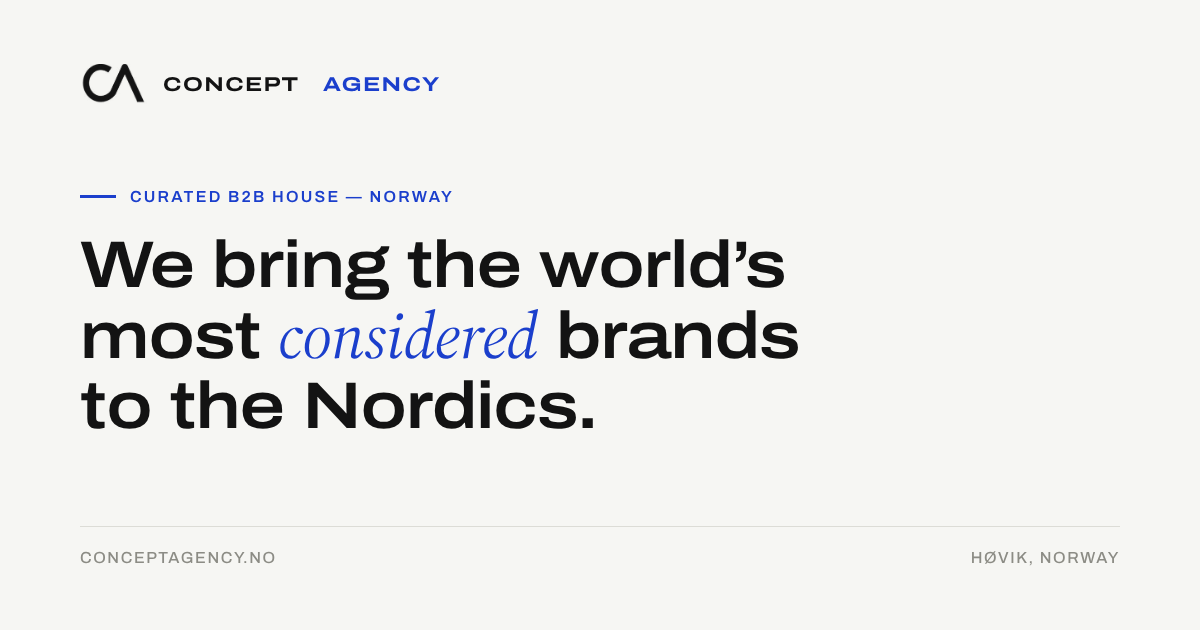
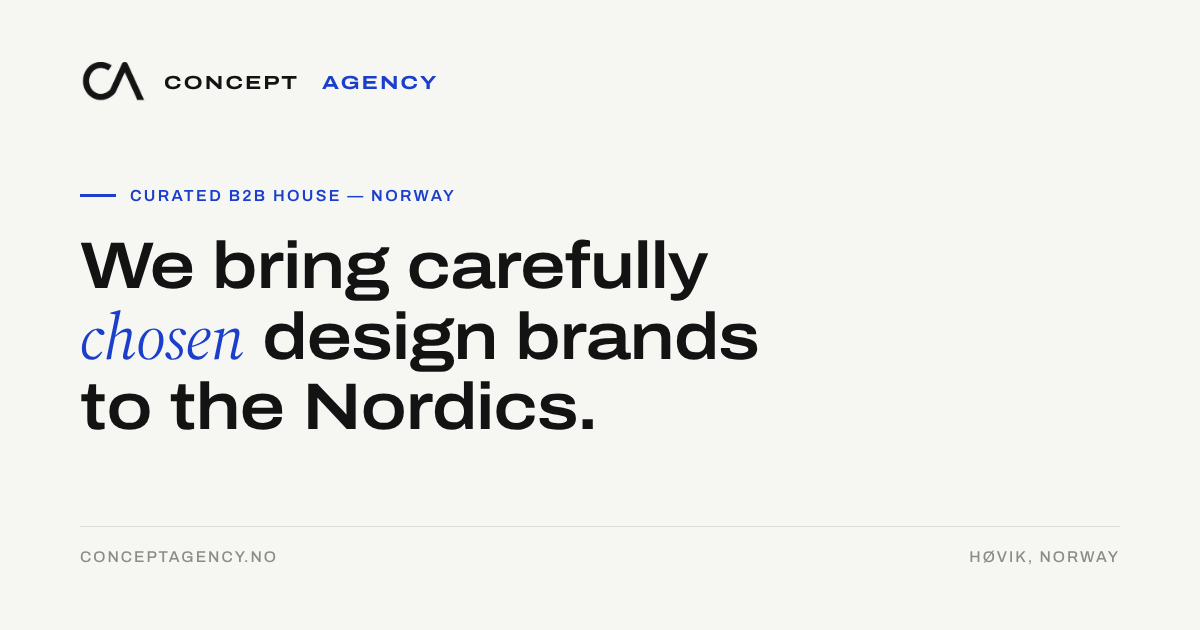
Homepage: section rhythm, Norwegian homepage (/no), new headlines; Consulting out of the top menu
- Homepage sections now alternate paper, white and ink like the inner pages; PoMo quote on ink
- Norwegian homepage at /no with a language switch on both homepages; hreflang and sitemap updated
- Each language stays in its own lane: English home links to /retail and /opticians, Norwegian home to /forhandler and /optiker
- Headlines: "We bring carefully chosen design brands to the Nordics." / "Merkevarer laget med omtanke, valgt med omhu."
- Link-preview image regenerated with the new English headline
- Consulting removed from the top menu on the agency pages; the homepage section remains

Claude-Session: https://claude.ai/code/session_018aYjpAzLeGziJtN6NsM1dY

diff --git a/no.html b/no.html
@@ -1,24 +1,24 @@
 <!DOCTYPE html>
-<html lang="en">
+<html lang="nb">
 <head>
 <meta charset="UTF-8">
 <meta name="viewport" content="width=device-width, initial-scale=1.0">
-<title>Concept Agency — Curated design brands for the Nordics</title>
-<meta name="description" content="Concept Agency is a curated B2B house in Norway, bringing a small number of design-led international brands to concept stores, museum shops and optician practices in the Nordics.">
-<link rel="canonical" href="https://conceptagency.no/">
+<title>Concept Agency — Kuraterte designmerkevarer for Norden</title>
+<meta name="description" content="Concept Agency er et kuratert B2B-agentur i Norge som bringer et lite utvalg designdrevne internasjonale merkevarer til konseptbutikker, museumsbutikker og optikere i Norden.">
+<link rel="canonical" href="https://conceptagency.no/no">
 <link rel="alternate" hreflang="en" href="https://conceptagency.no/">
 <link rel="alternate" hreflang="nb" href="https://conceptagency.no/no">
 <link rel="alternate" hreflang="x-default" href="https://conceptagency.no/">
 <meta property="og:type" content="website">
 <meta property="og:site_name" content="Concept Agency">
-<meta property="og:title" content="Concept Agency — Curated design brands for the Nordics">
-<meta property="og:description" content="Concept Agency is a curated B2B house in Norway, bringing a small number of design-led international brands to concept stores, museum shops and optician practices in the Nordics.">
-<meta property="og:url" content="https://conceptagency.no/">
+<meta property="og:title" content="Concept Agency — Kuraterte designmerkevarer for Norden">
+<meta property="og:description" content="Concept Agency er et kuratert B2B-agentur i Norge som bringer et lite utvalg designdrevne internasjonale merkevarer til konseptbutikker, museumsbutikker og optikere i Norden.">
+<meta property="og:url" content="https://conceptagency.no/no">
 <meta property="og:image" content="https://conceptagency.no/images/og-default.png">
 <meta property="og:image:width" content="1200">
 <meta property="og:image:height" content="630">
-<meta property="og:locale" content="en_GB">
-<meta property="og:locale:alternate" content="nb_NO">
+<meta property="og:locale" content="nb_NO">
+<meta property="og:locale:alternate" content="en_GB">
 <meta name="twitter:card" content="summary_large_image">
 <link rel="icon" href="/favicon.ico" sizes="48x48">
 <link rel="icon" type="image/png" sizes="192x192" href="/icon-192.png">
@@ -307,19 +307,19 @@
   .proof blockquote em{color:#8FA3F2}
   .hero h1{text-wrap:balance}
 </style>
-<script type="application/ld+json">{"@context": "https://schema.org", "@graph": [{"@type": "Organization", "@id": "https://conceptagency.no/#organization", "name": "Concept Agency", "legalName": "Concept Agency AS", "url": "https://conceptagency.no/", "logo": {"@type": "ImageObject", "url": "https://conceptagency.no/images/ca-mark.png", "width": 322, "height": 193}, "image": "https://conceptagency.no/images/og-default.png", "description": "Concept Agency is a curated B2B house in Norway, bringing a small number of design-led international brands to concept stores, museum shops and optician practices in the Nordics.", "email": "info@conceptagency.no", "telephone": "+47 934 64 432", "address": {"@type": "PostalAddress", "streetAddress": "Sarbuvollveien 38", "postalCode": "1363", "addressLocality": "Høvik", "addressCountry": "NO"}, "areaServed": {"@type": "Country", "name": "Norway"}, "award": "Izipizi Global Agent of the Year (2026)", "sameAs": ["https://www.linkedin.com/company/concept-agency-as/", "https://www.instagram.com/conceptagency_norway/"]}, {"@type": "Person", "@id": "https://conceptagency.no/#erik-spade", "name": "Erik Spade", "jobTitle": "Managing Partner", "sameAs": ["https://www.linkedin.com/in/erikspade67"], "worksFor": {"@id": "https://conceptagency.no/#organization"}}, {"@type": "WebSite", "@id": "https://conceptagency.no/#website", "url": "https://conceptagency.no/", "name": "Concept Agency", "publisher": {"@id": "https://conceptagency.no/#organization"}, "inLanguage": ["en", "nb"]}, {"@type": "WebPage", "@id": "https://conceptagency.no/#webpage", "url": "https://conceptagency.no/", "name": "Concept Agency — Curated design brands for the Nordics", "description": "Concept Agency is a curated B2B house in Norway, bringing a small number of design-led international brands to concept stores, museum shops and optician practices in the Nordics.", "isPartOf": {"@id": "https://conceptagency.no/#website"}, "about": {"@id": "https://conceptagency.no/#organization"}, "inLanguage": "en"}]}</script>
+<script type="application/ld+json">{"@context": "https://schema.org", "@graph": [{"@type": "WebPage", "@id": "https://conceptagency.no/no#webpage", "url": "https://conceptagency.no/no", "name": "Concept Agency — Kuraterte designmerkevarer for Norden", "description": "Concept Agency er et kuratert B2B-agentur i Norge som bringer et lite utvalg designdrevne internasjonale merkevarer til konseptbutikker, museumsbutikker og optikere i Norden.", "isPartOf": {"@id": "https://conceptagency.no/#website"}, "about": {"@id": "https://conceptagency.no/#organization"}, "inLanguage": "nb"}, {"@type": "Organization", "@id": "https://conceptagency.no/#organization", "name": "Concept Agency", "legalName": "Concept Agency AS", "url": "https://conceptagency.no/"}, {"@type": "WebSite", "@id": "https://conceptagency.no/#website", "url": "https://conceptagency.no/", "name": "Concept Agency", "publisher": {"@id": "https://conceptagency.no/#organization"}, "inLanguage": ["en", "nb"]}]}</script>
 </head>
 <body>
 
 <header>
   <div class="wrap nav">
-    <a class="wordmark" href="/" style="display:inline-flex;align-items:center;gap:12px"><img src="/images/ca-mark.png" alt="Concept Agency" style="height:30px;width:auto;display:block">Concept<span>&nbsp;Agency</span></a>
+    <a class="wordmark" href="/no" style="display:inline-flex;align-items:center;gap:12px"><img src="/images/ca-mark.png" alt="Concept Agency" style="height:30px;width:auto;display:block">Concept<span>&nbsp;Agency</span></a>
     <button class="menu-toggle" aria-label="Menu" aria-expanded="false" onclick="var n=document.querySelector('nav.links');this.setAttribute('aria-expanded',n.classList.toggle('open'))"><span></span><span></span></button>
     <nav class="links">
-      <a href='/retail'>For Retail</a>
-      <a href='/opticians'>For Opticians</a>
-      <a href="#brands">Brands</a>
-      <a href="#contact">Contact</a>
+      <a href='/forhandler'>Forhandlere</a>
+      <a href='/optiker'>Optikere</a>
+      <a href="#brands">Merkevarer</a>
+      <a href="#contact">Kontakt</a>
     </nav>
   </div>
 </header>
@@ -328,22 +328,22 @@
   <div class="wrap">
     <div class="hero-top">
       <div class="eyebrow">Izipizi Global Agent of the Year</div>
-      <a class="lang" href="/no" lang="nb" hreflang="nb">Norsk</a>
+      <a class="lang" href="/" lang="en" hreflang="en">English</a>
     </div>
-    <h1>We bring carefully <em>chosen</em> design brands to the Nordics.</h1>
-    <p class="standfirst">Concept Agency is a curated B2B house in Norway. We select a small number of design-led brands and build them lasting homes — in the best concept stores, museum shops and optician practices in the Nordics.</p>
+    <h1>Merkevarer laget med omtanke, <em>valgt</em> med omhu.</h1>
+    <p class="standfirst">Concept Agency er et kuratert B2B-agentur i Norge. Vi velger ut et lite antall designdrevne merkevarer og gir dem et varig hjem — i de beste konseptbutikkene, museumsbutikkene og optikerforretningene i Norden.</p>
     <div class="proof-grid hero-stats">
       <div class="stat">
         <div class="num">200</div>
-        <div class="lab">Doors across Norway — concept stores, museum shops and optician practices</div>
+        <div class="lab">Utsalgssteder i Norge — konseptbutikker, museumsbutikker og optikere</div>
       </div>
       <div class="stat">
         <div class="num">50<sup>+</sup></div>
-        <div class="lab">Optician practices working with us today</div>
+        <div class="lab">Optikere som samarbeider med oss i dag</div>
       </div>
       <div class="stat">
         <div class="num">№1</div>
-        <div class="lab">Izipizi agent worldwide — recognised globally in 2026</div>
+        <div class="lab">Izipizi-agent i verden — kåret globalt i 2026</div>
       </div>
     </div>
   </div>
@@ -351,87 +351,87 @@
 
 <section class="logostrip">
   <div class="wrap">
-    <p class="logostrip-label">Brands we represent in the Nordics</p>
+    <p class="logostrip-label">Merkevarer vi representerer i Norden</p>
     <div class="logostrip-row">
-      <a class="brandmark" href="/retail#izipizi">Izipizi</a>
-      <a class="brandmark" href="/retail#nychairx">Nychair&nbsp;X</a>
+      <a class="brandmark" href="/forhandler#izipizi">Izipizi</a>
+      <a class="brandmark" href="/forhandler#nychairx">Nychair&nbsp;X</a>
       <a class="brandmark" href="/milena-kling/">Milena Kling</a>
-      <a class="brandmark" href="/retail#hippiedeluxe">Hippie de Luxe</a>
-      <a class="brandmark" href="/retail#danawyse">Dana Wyse</a>
+      <a class="brandmark" href="/forhandler#hippiedeluxe">Hippie de Luxe</a>
+      <a class="brandmark" href="/forhandler#danawyse">Dana Wyse</a>
     </div>
   </div>
 </section>
 
 <section class="split">
-  <a class='panel' href='/retail' id='retail'>
-    <div class="tag">01 — For Retail</div>
-    <h2>Brands your customers come back for.</h2>
-    <p>Izipizi eyewear, Nychair X furniture, Milena Kling glass, Hippie de Luxe gift articles and Dana Wyse concept art — curated for stores with a point of view.</p>
-    <span class="go">Explore the retail portfolio</span>
+  <a class='panel' href='/forhandler' id='retail'>
+    <div class="tag">01 — For forhandlere</div>
+    <h2>Merkevarer kundene kommer tilbake for.</h2>
+    <p>Izipizi-briller, Nychair X-møbler, glass fra Milena Kling, gaveartikler fra Hippie de Luxe og konseptkunst av Dana Wyse — kuratert for butikker med en tydelig profil.</p>
+    <span class="go">Se porteføljen for forhandlere</span>
   </a>
-  <a class='panel' href='/opticians' id='opticians'>
-    <div class="tag">02 — For Opticians</div>
-    <h2>New revenue inside your practice.</h2>
-    <p>Izipizi optical lines, eyewear insurance, and the Izipizi RX collection for myopia management arriving 2027. Proven concepts that grow basket size — without adding complexity.</p>
-    <span class="go">See the optician programme</span>
+  <a class='panel' href='/optiker' id='opticians'>
+    <div class="tag">02 — For optikere</div>
+    <h2>Mer omsetning i butikken.</h2>
+    <p>Izipizi for optikere, brilleforsikring og Izipizi RX-kolleksjonen for myopikontroll, som kommer i 2027. Velprøvde konsepter som øker handlekurven — uten mer administrasjon.</p>
+    <span class="go">Se optikerprogrammet</span>
   </a>
 </section>
 
 <section class="brands" id="brands">
   <div class="wrap">
-    <div class="section-label">The Portfolio — Selected, not collected</div>
+    <div class="section-label">Porteføljen — Utvalgt, ikke samlet</div>
 
-    <a class='brand-row' href='/retail#izipizi'>
+    <a class='brand-row' href='/forhandler#izipizi'>
       <h3>Izipizi</h3>
-      <span class="cat">Eyewear for every chapter of life</span>
+      <span class="cat">Briller for alle livets faser</span>
       <span class="origin">Paris, FR</span>
     </a>
-    <a class='brand-row' href='/retail#nychairx'>
+    <a class='brand-row' href='/forhandler#nychairx'>
       <h3>Nychair X</h3>
-      <span class="cat">The Japanese folding lounge chair, designed by Takeshi Nii</span>
+      <span class="cat">Den japanske sammenleggbare hvilestolen, designet av Takeshi Nii</span>
       <span class="origin">Japan</span>
     </a>
     <a class='brand-row' href='/milena-kling/'>
       <h3>Milena Kling</h3>
-      <span class="cat">Contemporary mouth-blown glass — signed, one-of-a-kind collectibles</span>
+      <span class="cat">Munnblåst samtidsglass — signerte, unike samleobjekter</span>
       <span class="origin">Berlin, DE</span>
     </a>
-    <a class='brand-row' href='/retail#hippiedeluxe'>
+    <a class='brand-row' href='/forhandler#hippiedeluxe'>
       <h3>Hippie de Luxe</h3>
-      <span class="cat">The Nordics' leading gift article house — 33 brands, formerly Ohlsson &amp; Lohaven</span>
-      <span class="origin">Sweden</span>
+      <span class="cat">Nordens ledende hus for gaveartikler — 33 merkevarer, tidligere Ohlsson &amp; Lohaven</span>
+      <span class="origin">Sverige</span>
     </a>
-    <a class='brand-row' href='/retail#danawyse'>
+    <a class='brand-row' href='/forhandler#danawyse'>
       <h3>Dana Wyse</h3>
-      <span class="cat">Concept art — limited editions</span>
+      <span class="cat">Konseptkunst — begrensede opplag</span>
       <span class="origin">Paris / Vancouver</span>
     </a>
-    <a class="brand-row" href="/opticians">
-      <h3>Eyewear Insurance</h3>
-      <span class="cat">Aftercare programmes for optician practices</span>
-      <span class="origin">Norway</span>
+    <a class="brand-row" href="/optiker">
+      <h3>Brilleforsikring</h3>
+      <span class="cat">Forsikringsordninger for optikere</span>
+      <span class="origin">Norge</span>
     </a>
   </div>
 </section>
 
 <section class="feature" style="padding:12vh 0;border-bottom:1px solid var(--line)">
   <div class="wrap">
-    <div class="section-label" style="color:var(--cobalt)">New to the Portfolio — 2026</div>
+    <div class="section-label" style="color:var(--cobalt)">Nytt i porteføljen — 2026</div>
     <div style="display:grid;grid-template-columns:minmax(0,1.1fr) minmax(0,.9fr);gap:6vw;align-items:center" class="feature-grid">
       <div>
-        <h2 style="font-variation-settings:'wdth' 118;font-weight:600;font-size:clamp(1.9rem,3.8vw,3rem);line-height:1.06;letter-spacing:-.012em;margin-bottom:24px;max-width:14ch">Nychair&nbsp;X<br><span style="font-family:'Source Serif 4',serif;font-style:italic;font-weight:400;font-size:.55em;color:var(--cobalt)">A Japanese design icon, since 1970</span></h2>
-        <p style="max-width:50ch;color:#3c3c38;font-size:15px;margin-bottom:14px">Designed by Takeshi Nii in 1970 and still made entirely in Japan, Nychair X is the folding lounge chair that earned a permanent place in design history — comfortable, repairable, and beautiful folded or open.</p>
-        <p style="max-width:50ch;color:#3c3c38;font-size:15px">We are bringing Nychair X to the Nordic market — for design stores, museum shops and interiors retailers who understand that some objects are bought once and kept for life.</p>
-        <a href="mailto:info@conceptagency.no?subject=Nychair%20X%20Nordics" style="display:inline-flex;align-items:center;gap:8px;margin-top:30px;font-size:13px;font-weight:600;letter-spacing:.06em;text-transform:uppercase;color:var(--ink);text-decoration:none">Register retail interest <span>→</span></a>
+        <h2 style="font-variation-settings:'wdth' 118;font-weight:600;font-size:clamp(1.9rem,3.8vw,3rem);line-height:1.06;letter-spacing:-.012em;margin-bottom:24px;max-width:14ch">Nychair&nbsp;X<br><span style="font-family:'Source Serif 4',serif;font-style:italic;font-weight:400;font-size:.55em;color:var(--cobalt)">Et japansk designikon, siden 1970</span></h2>
+        <p style="max-width:50ch;color:#3c3c38;font-size:15px;margin-bottom:14px">Nychair X ble designet av Takeshi Nii i 1970 og produseres fortsatt i sin helhet i Japan. Det er den sammenleggbare hvilestolen som har fått en varig plass i designhistorien — komfortabel, mulig å reparere, og vakker både sammenlagt og åpen.</p>
+        <p style="max-width:50ch;color:#3c3c38;font-size:15px">Vi tar Nychair X til det nordiske markedet — for designbutikker, museumsbutikker og interiørbutikker som vet at noen gjenstander kjøper man én gang og beholder hele livet.</p>
+        <a href="mailto:info@conceptagency.no?subject=Nychair%20X%20Nordics" style="display:inline-flex;align-items:center;gap:8px;margin-top:30px;font-size:13px;font-weight:600;letter-spacing:.06em;text-transform:uppercase;color:var(--ink);text-decoration:none">Meld interesse som forhandler <span>→</span></a>
       </div>
-      <figure style="aspect-ratio:4/5;overflow:hidden;margin:0"><img src="/images/nychairx.jpg" alt="Nychair X lounge chair in a Japanese interior" loading="lazy" style="width:100%;height:100%;object-fit:cover;display:block"></figure>
+      <figure style="aspect-ratio:4/5;overflow:hidden;margin:0"><img src="/images/nychairx.jpg" alt="Nychair X hvilestol i et japansk interiør" loading="lazy" style="width:100%;height:100%;object-fit:cover;display:block"></figure>
     </div>
   </div>
 </section>
 
 <section class="proof">
   <div class="wrap">
-    <div class="section-label">Why partners choose us</div>
+    <div class="section-label">Derfor velger partnerne oss</div>
     <blockquote>"Concept Agency is a trusted <em>partner</em> — not only a supplier."</blockquote>
     <div class="attrib">PoMo — a Museum of Modern and Contemporary Art</div>
   </div>
@@ -440,9 +440,9 @@
 <section class="founder">
   <div class="wrap">
     <div>
-      <h2>An agency built on relationships, not catalogues.</h2>
-      <p>Concept Agency is led personally by Erik Spade — three decades of building brands and businesses in the Nordics. Every account is handled by the person who signed it.</p>
-      <p>We say no more often than we say yes. A brand enters our portfolio only when we believe it deserves a permanent place on Nordic shelves — and when we know exactly whose shelves those are.</p>
+      <h2>Et agentur bygget på relasjoner, ikke kataloger.</h2>
+      <p>Concept Agency ledes personlig av Erik Spade — med tre tiår bak seg i å bygge merkevarer og virksomheter i Norden. Hver kunde følges opp av den som signerte avtalen.</p>
+      <p>Vi sier nei oftere enn vi sier ja. En merkevare kommer inn i porteføljen først når vi mener den fortjener en varig plass i nordiske butikkhyller — og når vi vet nøyaktig hvem sine hyller det er.</p>
       <div class="sig">Erik Spade<small>Managing Partner, Concept Agency</small></div>
     </div>
   </div>
@@ -450,25 +450,25 @@
 
 <section class="brands" id="consulting" style="padding:10vh 0">
   <div class="wrap">
-    <div class="section-label">Concept Agency Consulting — The same experience, applied to your business</div>
-    <a class="brand-row consult-row" href="/consulting">
-      <h3>Fractional CAIO &amp; AI operations</h3>
-      <span class="cat">For owner-led companies that have outgrown their routines</span>
-      <span class="origin">See how it works →</span>
+    <div class="section-label">Concept Agency Consulting — Samme erfaring, brukt på din bedrift</div>
+    <a class="brand-row consult-row" href="/raadgivning">
+      <h3>Innleid CAIO og KI i driften</h3>
+      <span class="cat">For eierledede bedrifter som har vokst fra rutinene sine</span>
+      <span class="origin">Se hvordan det fungerer →</span>
     </a>
   </div>
 </section>
 
 <section class="cta" id="contact">
   <div class="wrap">
-    <h2>Let's find out if we fit.</h2>
+    <h2>La oss finne ut om vi passer sammen.</h2>
     <form id="contactForm_index" class="contact-form" style="margin-top:8px;max-width:520px;display:grid;gap:14px">
       <div aria-hidden="true" style="position:absolute;left:-9999px;width:1px;height:1px;overflow:hidden"><label>Leave this field empty <input type="text" name="ca_confirm" tabindex="-1" autocomplete="off"></label></div>
-      <input type="text" name="name" placeholder="Your name" required style="background:transparent;border:1px solid var(--line);color:var(--ink);padding:15px 16px;font-family:'Archivo',sans-serif;font-size:14px;width:100%">
-      <input type="text" name="company" placeholder="Store / company" style="background:transparent;border:1px solid var(--line);color:var(--ink);padding:15px 16px;font-family:'Archivo',sans-serif;font-size:14px;width:100%">
-      <input type="email" name="email" placeholder="Email" required style="background:transparent;border:1px solid var(--line);color:var(--ink);padding:15px 16px;font-family:'Archivo',sans-serif;font-size:14px;width:100%">
-      <textarea name="message" placeholder="What are you interested in?" rows="3" style="background:transparent;border:1px solid var(--line);color:var(--ink);padding:15px 16px;font-family:'Archivo',sans-serif;font-size:14px;width:100%;resize:vertical"></textarea>
-      <button type="submit" class="btn" style="border:none;cursor:pointer;justify-self:start">Start the conversation</button>
+      <input type="text" name="name" placeholder="Navn" required style="background:transparent;border:1px solid var(--line);color:var(--ink);padding:15px 16px;font-family:'Archivo',sans-serif;font-size:14px;width:100%">
+      <input type="text" name="company" placeholder="Butikk / firma" style="background:transparent;border:1px solid var(--line);color:var(--ink);padding:15px 16px;font-family:'Archivo',sans-serif;font-size:14px;width:100%">
+      <input type="email" name="email" placeholder="E-post" required style="background:transparent;border:1px solid var(--line);color:var(--ink);padding:15px 16px;font-family:'Archivo',sans-serif;font-size:14px;width:100%">
+      <textarea name="message" placeholder="Hva er dere interessert i?" rows="3" style="background:transparent;border:1px solid var(--line);color:var(--ink);padding:15px 16px;font-family:'Archivo',sans-serif;font-size:14px;width:100%;resize:vertical"></textarea>
+      <button type="submit" class="btn" style="border:none;cursor:pointer;justify-self:start">Start samtalen</button>
       <p class="form-msg" style="display:none;font-size:14px;margin-top:4px"></p>
     </form>
     <script>
@@ -479,22 +479,22 @@
       var data={}; new FormData(f).forEach(function(v,k){data[k]=v;});
       var bot=!!data.ca_confirm||(Date.now()-window.caT0)<3000; delete data.ca_confirm;
       data.form='General contact';
-      data.source='conceptagency.no — homepage';
-      btn.disabled=true; btn.textContent='Sending…';
+      data.source='conceptagency.no — forside (NO)';
+      btn.disabled=true; btn.textContent='Sender…';
       try{
         if(!bot) await fetch('https://hooks.zapier.com/hooks/catch/20267965/431r5kg/',{method:'POST',body:JSON.stringify(data)});
         f.querySelectorAll('input,textarea').forEach(function(i){i.style.display='none';});
         btn.style.display='none';
         msg.style.display='block'; msg.style.color='#2E7D43';
-        msg.textContent="Thank you — we'll be in touch within one business day.";
+        msg.textContent="Takk — vi tar kontakt innen én virkedag.";
       }catch(err){
-        btn.disabled=false; btn.textContent='Start the conversation';
+        btn.disabled=false; btn.textContent='Start samtalen';
         msg.style.display='block'; msg.style.color='#B3463C';
-        msg.textContent='Something went wrong — call us instead: +47 934 64 432.';
+        msg.textContent='Noe gikk galt — ring oss heller: +47 934 64 432.';
       }
     });
     </script>
-    <p style="margin-top:22px;font-size:14px;color:#3c3c38">Or call Erik Spade directly: <a href="tel:+4793464432" style="color:var(--ink);font-weight:600;text-decoration:underline;text-underline-offset:3px">+47 934 64 432</a></p>
+    <p style="margin-top:22px;font-size:14px;color:#3c3c38">Eller ring Erik Spade direkte: <a href="tel:+4793464432" style="color:var(--ink);font-weight:600;text-decoration:underline;text-underline-offset:3px">+47 934 64 432</a></p>
   </div>
 </section>
 
@@ -502,7 +502,7 @@
   <div class="wrap foot">
     <p>© 2026 Concept Agency AS — Sarbuvollveien 38, 1363 Høvik, Norway</p>
     <p><a href="tel:+4793464432">+47 934 64 432</a> &nbsp;·&nbsp; <a href="mailto:info@conceptagency.no">info@conceptagency.no</a></p>
-    <p><a href="https://www.instagram.com/conceptagency_norway/" target="_blank" rel="noopener">Instagram</a> &nbsp;·&nbsp; <a href="https://www.linkedin.com/company/concept-agency-as/" target="_blank" rel="noopener">LinkedIn</a> &nbsp;·&nbsp; <a href="/privacy">Privacy</a></p>
+    <p><a href="https://www.instagram.com/conceptagency_norway/" target="_blank" rel="noopener">Instagram</a> &nbsp;·&nbsp; <a href="https://www.linkedin.com/company/concept-agency-as/" target="_blank" rel="noopener">LinkedIn</a> &nbsp;·&nbsp; <a href="/privacy">Personvern</a></p>
   </div>
 </footer>
 

diff --git a/forhandler.html b/forhandler.html
@@ -209,13 +209,12 @@
 
 <header>
   <div class="wrap nav">
-    <a class="wordmark" href="/" style="display:inline-flex;align-items:center;gap:12px"><img src="/images/ca-mark.png" alt="Concept Agency" style="height:30px;width:auto;display:block">Concept<span>&nbsp;Agency</span></a>
+    <a class="wordmark" href="/no" style="display:inline-flex;align-items:center;gap:12px"><img src="/images/ca-mark.png" alt="Concept Agency" style="height:30px;width:auto;display:block">Concept<span>&nbsp;Agency</span></a>
     <button class="menu-toggle" aria-label="Menu" aria-expanded="false" onclick="var n=document.querySelector('nav.links');this.setAttribute('aria-expanded',n.classList.toggle('open'))"><span></span><span></span></button>
     <nav class="links">
       <a class='active' href='/forhandler'>Forhandlere</a>
       <a href='/optiker'>Optikere</a>
-      <a href='/raadgivning'>Rådgivning</a>
-      <a href="/#brands">Merkevarer</a>
+      <a href="/no#brands">Merkevarer</a>
       <a href="#contact">Kontakt</a>
     </nav>
   </div>
@@ -362,7 +361,7 @@
   <div class="wrap foot">
     <p>© 2026 Concept Agency AS — Sarbuvollveien 38, 1363 Høvik, Norway</p>
     <p><a href="tel:+4793464432">+47 934 64 432</a> &nbsp;·&nbsp; <a href="mailto:info@conceptagency.no">info@conceptagency.no</a></p>
-    <p><a href="/">Hjem</a> &nbsp;·&nbsp; <a href="https://www.instagram.com/conceptagency_norway/" target="_blank" rel="noopener">Instagram</a> &nbsp;·&nbsp; <a href="https://www.linkedin.com/company/concept-agency-as/" target="_blank" rel="noopener">LinkedIn</a> &nbsp;·&nbsp; <a href="/privacy">Personvern</a></p>
+    <p><a href="/no">Hjem</a> &nbsp;·&nbsp; <a href="https://www.instagram.com/conceptagency_norway/" target="_blank" rel="noopener">Instagram</a> &nbsp;·&nbsp; <a href="https://www.linkedin.com/company/concept-agency-as/" target="_blank" rel="noopener">LinkedIn</a> &nbsp;·&nbsp; <a href="/privacy">Personvern</a></p>
   </div>
 </footer>
 

diff --git a/optiker.html b/optiker.html
@@ -271,13 +271,12 @@
 
 <header>
   <div class="wrap nav">
-    <a class="wordmark" href="/" style="display:inline-flex;align-items:center;gap:12px"><img src="/images/ca-mark.png" alt="Concept Agency" style="height:30px;width:auto;display:block">Concept<span>&nbsp;Agency</span></a>
+    <a class="wordmark" href="/no" style="display:inline-flex;align-items:center;gap:12px"><img src="/images/ca-mark.png" alt="Concept Agency" style="height:30px;width:auto;display:block">Concept<span>&nbsp;Agency</span></a>
     <button class="menu-toggle" aria-label="Menu" aria-expanded="false" onclick="var n=document.querySelector('nav.links');this.setAttribute('aria-expanded',n.classList.toggle('open'))"><span></span><span></span></button>
     <nav class="links">
       <a href='/forhandler'>Forhandlere</a>
       <a class='active' href='/optiker'>Optikere</a>
-      <a href='/raadgivning'>Rådgivning</a>
-      <a href="/#brands">Merkevarer</a>
+      <a href="/no#brands">Merkevarer</a>
       <a href="#contact">Kontakt</a>
     </nav>
   </div>
@@ -454,7 +453,7 @@
   <div class="wrap foot">
     <p>© 2026 Concept Agency AS — Sarbuvollveien 38, 1363 Høvik, Norway</p>
     <p><a href="tel:+4793464432">+47 934 64 432</a> &nbsp;·&nbsp; <a href="mailto:info@conceptagency.no">info@conceptagency.no</a></p>
-    <p><a href="/">Hjem</a> &nbsp;·&nbsp; <a href="https://www.instagram.com/conceptagency_norway/" target="_blank" rel="noopener">Instagram</a> &nbsp;·&nbsp; <a href="https://www.linkedin.com/company/concept-agency-as/" target="_blank" rel="noopener">LinkedIn</a> &nbsp;·&nbsp; <a href="/privacy">Personvern</a></p>
+    <p><a href="/no">Hjem</a> &nbsp;·&nbsp; <a href="https://www.instagram.com/conceptagency_norway/" target="_blank" rel="noopener">Instagram</a> &nbsp;·&nbsp; <a href="https://www.linkedin.com/company/concept-agency-as/" target="_blank" rel="noopener">LinkedIn</a> &nbsp;·&nbsp; <a href="/privacy">Personvern</a></p>
   </div>
 </footer>
 

diff --git a/raadgivning.html b/raadgivning.html
@@ -326,7 +326,7 @@
       <a href="#models">Tjenester</a>
       <a href="#case">Kundecase</a>
       <a href="#contact">Kontakt</a>
-      <a class="back" href="/">Byrået</a>
+      <a class="back" href="/no">Byrået</a>
     </nav>
   </div>
 </header>
@@ -499,7 +499,7 @@
   <div class="wrap foot">
     <p>© 2026 Concept Agency AS — Sarbuvollveien 38, 1363 Høvik, Norway</p>
     <p><a href="tel:+4793464432">+47 934 64 432</a> &nbsp;·&nbsp; <a href="mailto:info@conceptagency.no">info@conceptagency.no</a></p>
-    <p><a href="/">Hjem</a> &nbsp;·&nbsp; <a href="https://www.instagram.com/conceptagency_norway/" target="_blank" rel="noopener">Instagram</a> &nbsp;·&nbsp; <a href="https://www.linkedin.com/company/concept-agency-as/" target="_blank" rel="noopener">LinkedIn</a> &nbsp;·&nbsp; <a href="/privacy">Personvern</a></p>
+    <p><a href="/no">Hjem</a> &nbsp;·&nbsp; <a href="https://www.instagram.com/conceptagency_norway/" target="_blank" rel="noopener">Instagram</a> &nbsp;·&nbsp; <a href="https://www.linkedin.com/company/concept-agency-as/" target="_blank" rel="noopener">LinkedIn</a> &nbsp;·&nbsp; <a href="/privacy">Personvern</a></p>
   </div>
 </footer>
 

diff --git a/opticians.html b/opticians.html
@@ -276,7 +276,6 @@
     <nav class="links">
       <a href='/retail'>For Retail</a>
       <a class='active' href='/opticians'>For Opticians</a>
-      <a href='/consulting'>Consulting</a>
       <a href="/#brands">Brands</a>
       <a href="#contact">Contact</a>
     </nav>

diff --git a/retail.html b/retail.html
@@ -214,7 +214,6 @@
     <nav class="links">
       <a class='active' href='/retail'>For Retail</a>
       <a href='/opticians'>For Opticians</a>
-      <a href='/consulting'>Consulting</a>
       <a href="/#brands">Brands</a>
       <a href="#contact">Contact</a>
     </nav>

diff --git a/README.md b/README.md
@@ -7,6 +7,7 @@ Source for the Concept Agency AS website — a static site, no build step.
 | Path | Purpose |
 |---|---|
 | `index.html` | Homepage |
+| `no.html` | Norwegian homepage — served at `/no` |
 | `retail.html` | For Retail — served at `/retail` |
 | `opticians.html` | For Opticians — served at `/opticians` |
 | `forhandler.html` | Norwegian version of For Retail — served at `/forhandler` |
